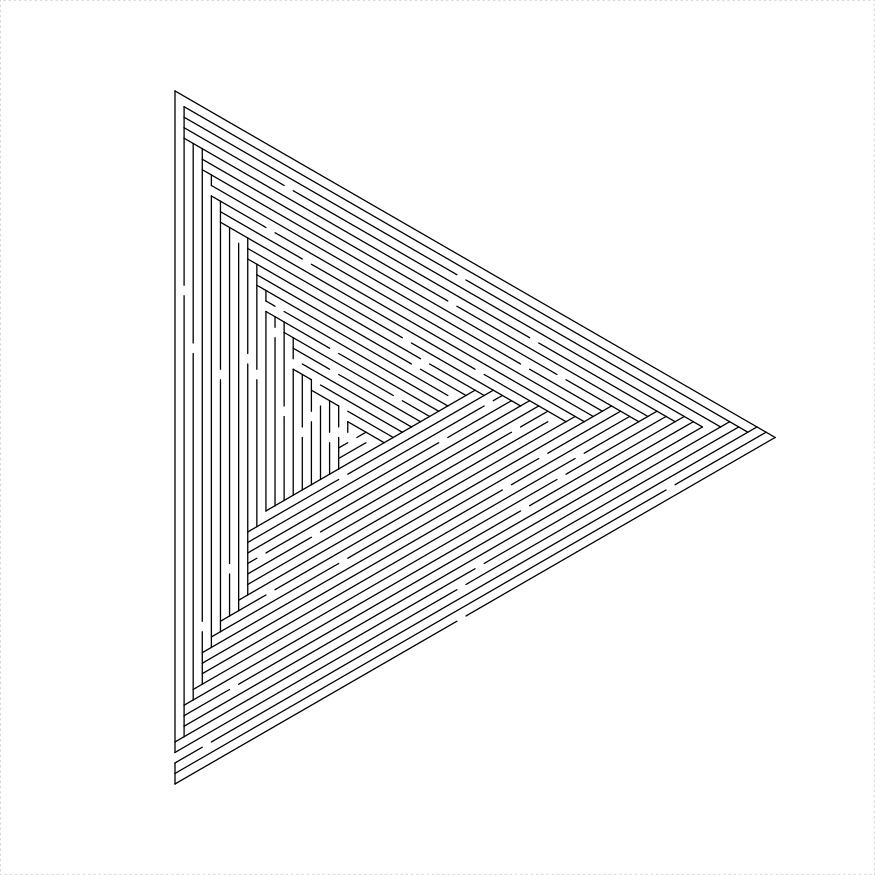
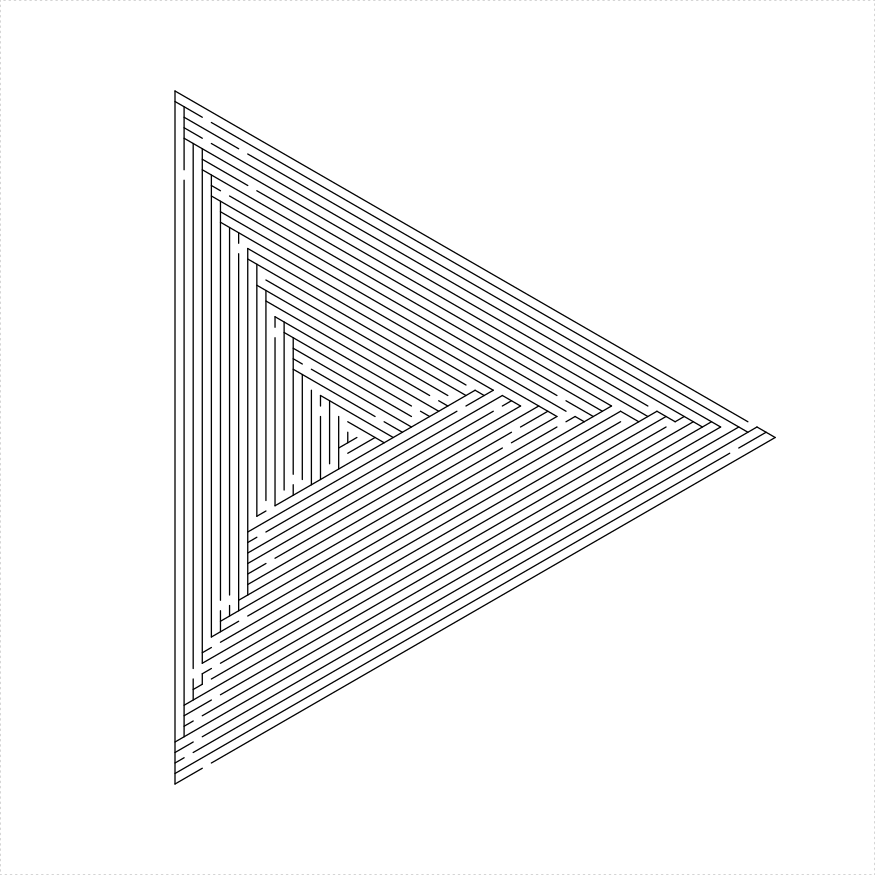
adding boustro parameter
not much used yet, but adding to triangle, trapezoid and hexagon mazes.

diff --git a/README.md b/README.md
@@ -248,7 +248,8 @@ turtle_do({
     turtle_forward(distance = 300)
     turtle_right(90)
     eq_triangle_maze(depth = log2(66), unit_len = 12, 
-        method = "shave_all", draw_boundary = TRUE)
+        method = "shave_all", draw_boundary = TRUE, 
+        boustro = c(35, 2))
 })
 ```
 
